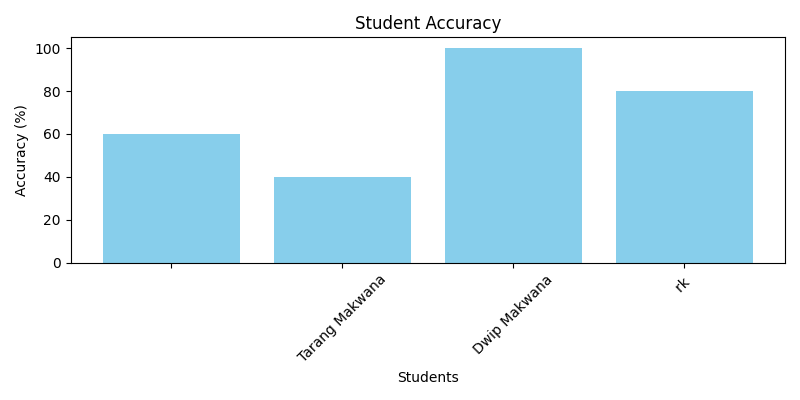
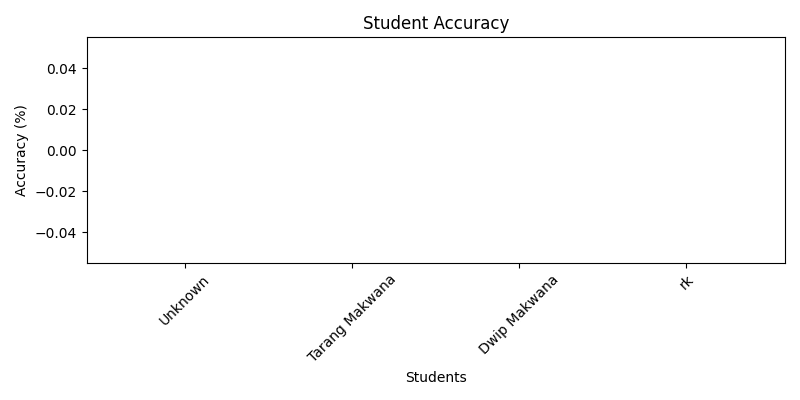
LMS project

diff --git a/app/templates/admin_analytics.html b/app/templates/admin_analytics.html
@@ -112,6 +112,14 @@
                 </div>
             </div>
         </div>
+        {% else %}
+        <div class="row mt-4">
+            <div class="col-md-12">
+                <div class="alert alert-warning" role="alert">
+                    Chart unavailable – insufficient data
+                </div>
+            </div>
+        </div>
         {% endif %}
     </div>
 {% endblock content %}

diff --git a/app/main.py b/app/main.py
@@ -203,11 +203,14 @@ def admin_analytics():
     if success and user_list:
         for user in user_list:
             name = f"{user.get('First Name', 'Unknown')} {user.get('Last Name', 'User')}"
-            # Generate dummy performance data since DB doesn't have it
-            solved = random.randint(0, 5)
-            completion = random.randint(0, 100)
+            solved = user.get('solved', None)
+            completion = user.get('completion', None)
+            if solved is None:
+                solved = 0
+            if completion is None:
+                completion = random.randint(0, 100)
             students.append({
-                "name": name,
+                "name": name.strip(),
                 "solved": solved,
                 "completion": completion
             })
@@ -218,13 +221,28 @@ def admin_analytics():
             {"name": "Priya", "solved": 4, "completion": 90},
             {"name": "Aman", "solved": 5, "completion": 100}
         ]
-    
-    # Calculate metrics for each student
+
+    # Ensure there is at least one data point
+    if not students:
+        students = [{"name": "No Data", "solved": 0, "completion": 0, "accuracy": 0, "skill": "Beginner"}]
+
+    # Calculate metrics for each student safely
     for student in students:
-        solved = student["solved"]
+        solved = student.get("solved", 0) or 0
+        completion = student.get("completion", 0) or 0
+        if solved < 0:
+            solved = 0
+        if solved > 5:
+            solved = 5
+        student["solved"] = solved
+        student["completion"] = completion
         student["accuracy"] = (solved / 5) * 100
         student["skill"] = get_skill_level(solved)
-    
+
+    # Ensure there is at least one data point before plotting
+    if not students:
+        students = [{"name": "No Data", "solved": 0, "completion": 0, "accuracy": 0, "skill": "Beginner"}]
+
     # Generate graphs
     try:
         base_dir = os.path.dirname(os.path.abspath(__file__))
@@ -235,9 +253,18 @@ def admin_analytics():
         accuracy_chart_path = os.path.join(static_path, 'accuracy_chart.png')
         skill_chart_path = os.path.join(static_path, 'skill_chart.png')
 
+        # Prepare safe plotting data
+        names = [student.get("name", "Unknown") or "Unknown" for student in students]
+        accuracies = [student.get("accuracy", 0) or 0 for student in students]
+        skills = [student.get("skill", "Beginner") or "Beginner" for student in students]
+
+        if len(names) == 0 or len(accuracies) == 0:
+            students = [{"name": "No Data", "accuracy": 0, "skill": "Beginner"}]
+            names = ["No Data"]
+            accuracies = [0]
+            skills = ["Beginner"]
+
         # Bar chart for accuracy
-        names = [s["name"] for s in students]
-        accuracies = [s["accuracy"] for s in students]
         plt.clf()
         plt.figure(figsize=(8, 4))
         plt.bar(names, accuracies, color='skyblue')
@@ -248,28 +275,30 @@ def admin_analytics():
         plt.tight_layout()
         plt.savefig(accuracy_chart_path)
         plt.close()
-        
+
         # Pie chart for skill levels
         skill_counts = {}
-        for s in students:
-            skill = s["skill"]
+        for skill in skills:
             skill_counts[skill] = skill_counts.get(skill, 0) + 1
         labels = list(skill_counts.keys())
         sizes = list(skill_counts.values())
+        if not labels or not sizes:
+            labels = ["Beginner"]
+            sizes = [1]
         colors = ['lightcoral', 'lightskyblue', 'lightgreen']
         plt.clf()
         plt.figure(figsize=(6, 6))
-        plt.pie(sizes, labels=labels, colors=colors, autopct='%1.1f%%', startangle=140)
+        plt.pie(sizes, labels=labels, colors=colors[:len(labels)], autopct='%1.1f%%', startangle=140)
         plt.title('Skill Level Distribution')
         plt.axis('equal')
         plt.tight_layout()
         plt.savefig(skill_chart_path)
         plt.close()
-        
+
         accuracy_chart = 'accuracy_chart.png'
         skill_chart = 'skill_chart.png'
-    except Exception:
-        # Fallback if matplotlib fails
+    except Exception as e:
+        print("Chart error:", e)
         accuracy_chart = None
         skill_chart = None
     
